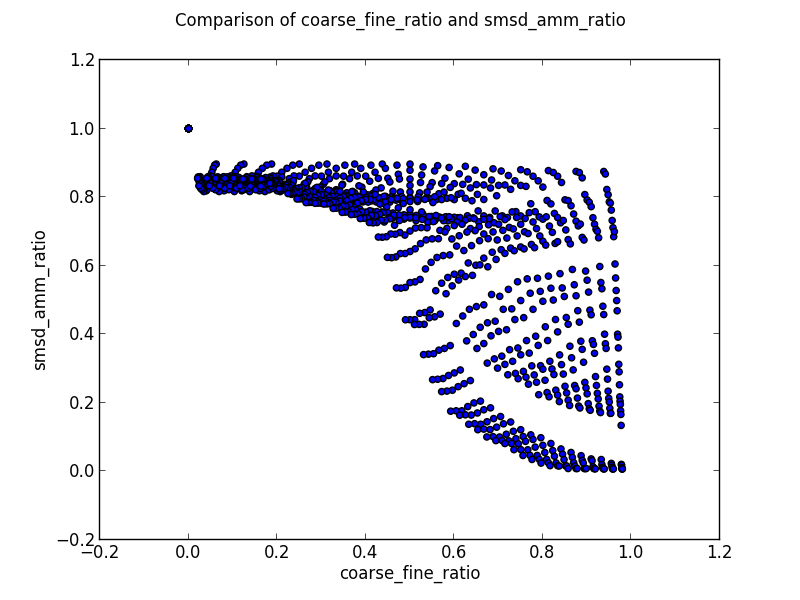
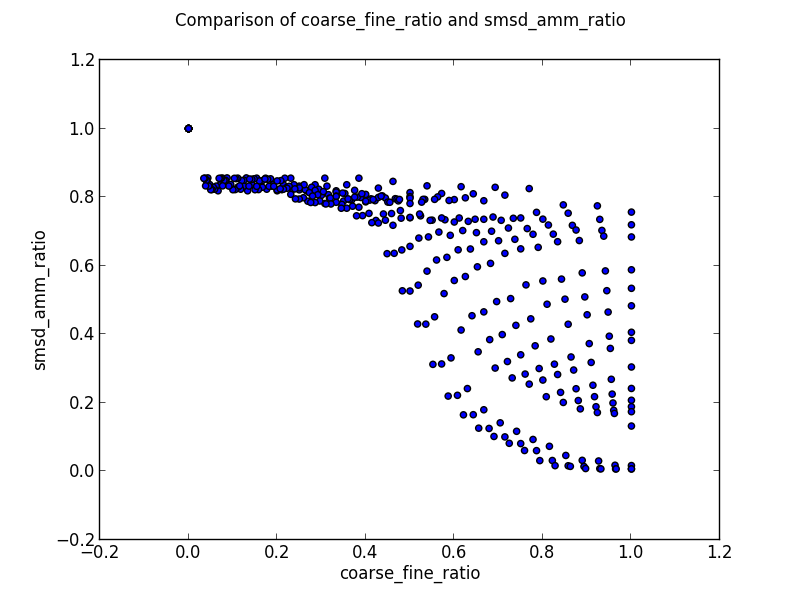
math arithmetic exception

Changed region(s): [[0.2188, 0.27, 0.8125, 0.81]]

diff --git a/scripts/simulateResults.py b/scripts/simulateResults.py
@@ -60,7 +60,6 @@ class ResultTable:
 
 
 
-
 def parseFiles( smsdFilename, ammFilename):
 	smsdResults = []
 	with open(smsdFilename) as smsd:
@@ -96,7 +95,7 @@ def parseFiles( smsdFilename, ammFilename):
 
 	return (smsdResults, ammResults)
 
-def getAveNumMatches(coarse, fine, smsdResults, ammResults):
+def getAveNumSMSDMatches(fine, smsdResults):
 	matchTable = {}
 	resTable = ResultTable()
 	smsdMatches = 0
@@ -105,6 +104,11 @@ def getAveNumMatches(coarse, fine, smsdResults, ammResults):
 			smsdMatches += 1
 			resTable.addResult(sRes)
 
+	aveSMSDMatches = float(smsdMatches) / len(smsdResults)
+
+	return aveSMSDMatches, resTable
+
+def getAveNumAmmMatches(coarse, fine, resTable, ammResults):
 
 	ammMatches = 0
 	for aRes in ammResults:
@@ -113,28 +117,30 @@ def getAveNumMatches(coarse, fine, smsdResults, ammResults):
 			if sRes != None:
 				ammMatches += 1
 
-	aveSMSDMatches = float(smsdMatches) / len(smsdResults)
 	aveAmmMatches = float(ammMatches) / len(ammResults)
 
-	return (aveSMSDMatches, aveAmmMatches)
+	return aveAmmMatches
 
 def getData(smsdResults, ammResults):
 	pts = []
-	k = 50
+	k = 100
 	data = np.zeros((k,k))
 	Y = []
 	X = []
-	for i,fine in enumerate( [n/float(k) for n in range(k/3,k)]):
-		for j,coarse in enumerate( [n/float(k) for n in range(0,int((k+1)*fine))]):
-			aveSMSD, aveAmm = getAveNumMatches(coarse,fine,smsdResults,ammResults)
-			ratio = aveAmm / aveSMSD
-			data[i,j] = ratio
-			Y.append( ratio)
-			X.append( coarse / fine)
+	for i,fine in enumerate( [n/float(k) for n in range(0,k)]):
+		if fine > 0.4:
+			aveSMSD, resTable = getAveNumSMSDMatches(fine, smsdResults)
+			for j,coarse in enumerate( [n/float(k) for n in range(0,k)]):
+				if coarse <= fine:
+					aveAmm = getAveNumAmmMatches(coarse,fine,resTable,ammResults)
+					ratio = aveAmm / aveSMSD
+					data[i,j] = ratio
+					Y.append( ratio)
+					X.append( coarse / fine)
 
 	return data, [n/float(k) for n in range(0,k)], [n/float(k) for n in range(0,k)], X, Y
 
-def buildHeatMap( data, column_labels, row_labels):
+def buildHeatMap( data, column_labels, row_labels, rowName, colName, outname="Heat Map"):
 
 
 	fig, ax = plt.subplots()
@@ -146,6 +152,11 @@ def buildHeatMap( data, column_labels, row_labels):
 
 	ax.set_xticklabels(row_labels, minor=False)
 	ax.set_yticklabels(column_labels, minor=False)
+
+	ax.set_xlabel(rowName)
+	ax.set_ylabel(colName)
+
+	fig.savefig(outname)
 	plt.show()
 
 def makeGraph(X,Y, xName, yName, name="NoName"):
@@ -165,7 +176,7 @@ def main( args):
 	ammFilename = args[2]
 	smsdResults, ammResults = parseFiles(smsdFilename, ammFilename)
 	data, cols, rows, X, Y = getData(smsdResults, ammResults)
-	buildHeatMap(data, cols, rows)
+	buildHeatMap(data, cols, rows, "coarse threshold", "fine threshold")
 	makeGraph(X,Y, "coarse_fine_ratio", "smsd_amm_ratio")
 
 if __name__ == "__main__":

diff --git a/src/edu/mit/csail/ammolite/mcs/IsoRank.java b/src/edu/mit/csail/ammolite/mcs/IsoRank.java
@@ -170,22 +170,17 @@ public class IsoRank{
 		RealVector R = new OpenMapRealVector(A.getColumnDimension());
 		
 		R.mapAddToSelf(1.0);
-		try{
-			R.unitize();
-		} catch(MathArithmeticException mae){
-			return new OpenMapRealVector(A.getColumnDimension());
-		}
+		R.unitize();
 
 		int iter = 0;
 		
 		while(iter < MAX_ITERATIONS){
 			R  = A.postOperate(R);
-			try{
-				R.unitize();
+			double norm = R.getNorm();
+			if( norm < 0.00000001){
+				return R;
 			}
-			catch(MathArithmeticException mae){
-				return new OpenMapRealVector(A.getColumnDimension());
-			}
+			R.mapDivideToSelf(norm);
 			iter++;
 		}
 		
